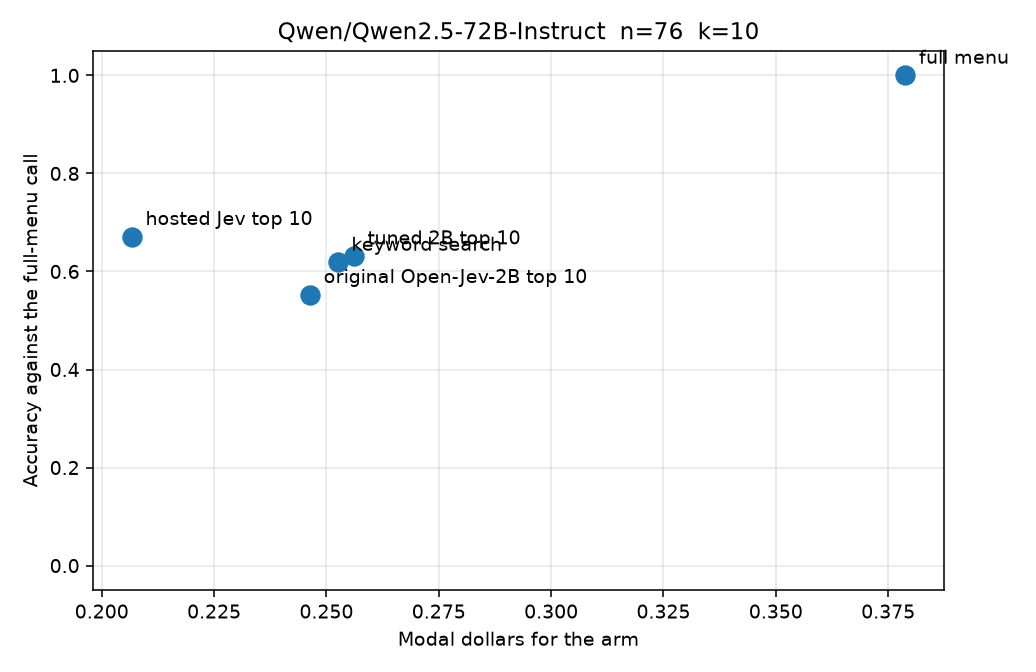
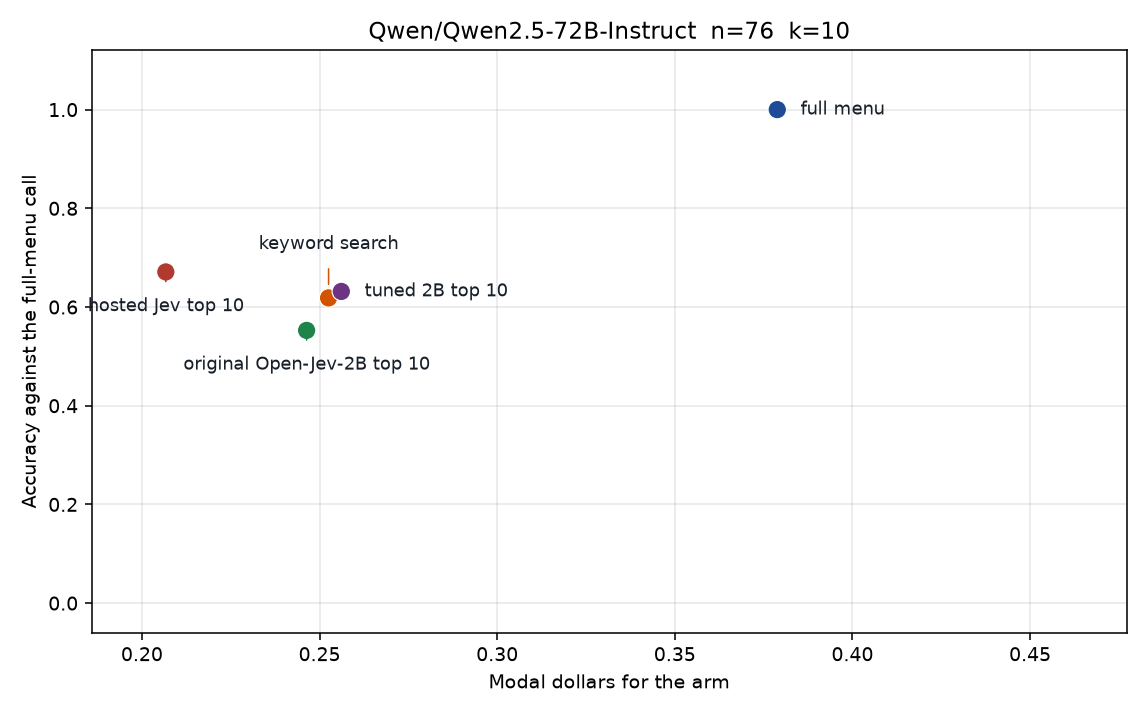
Separate the 76-query cost-graph labels so the names do not overlap.
The keyword-search name was sitting on tuned 2B because leader lines were counted as the labels. Place the words from the same five recorded points.

Changed region(s): [[0.0, 0.0312, 0.9884, 0.9688], [0.1544, 0.5, 0.3707, 0.5312], [0.6486, 0.125, 0.7722, 0.1875]]

diff --git a/frontier_plot.py b/frontier_plot.py
@@ -7,6 +7,7 @@ import re
 from pathlib import Path
 
 _FONTSIZE = 9
+_LABEL_GAP = 8
 _COLORS = (
     "#1f4b99",
     "#d35400",
@@ -93,10 +94,15 @@ def _predicted_box(anchor, dx_pt: float, dy_pt: float, width_px: float, height_p
 
 
 def _annotation_boxes(annotations, renderer):
+    """Text boxes only. Leader lines may cross empty space."""
+    from matplotlib.text import Text
+
     boxes = []
     for ann in annotations:
-        box = ann.get_window_extent(renderer)
-        boxes.append(_padded(box, 2))
+        if renderer is not None:
+            ann._renderer = renderer
+        ann.update_positions(ann._renderer)
+        boxes.append(_padded(Text.get_window_extent(ann), _LABEL_GAP))
     return boxes
 
 
@@ -191,7 +197,7 @@ def draw_labeled_scatter(ax, xs: list[float], ys: list[float], labels: list[obje
         text_h = height + descent
         chosen = None
         for dx_pt, dy_pt in _center_offsets(index, width, text_h, px_per_pt):
-            box = _predicted_box(anchors[index], dx_pt, dy_pt, width, text_h, px_per_pt, pad=4)
+            box = _predicted_box(anchors[index], dx_pt, dy_pt, width, text_h, px_per_pt, pad=_LABEL_GAP)
             if not _inside_figure(box, figure):
                 continue
             if _overlaps(box, obstacles) or _overlaps(box, placed):

diff --git a/tests/test_cost_accuracy_labels.py b/tests/test_cost_accuracy_labels.py
@@ -19,11 +19,18 @@ def _name_artists(ax):
 
 
 def _separated(fig, ax) -> None:
+    from matplotlib.text import Annotation, Text
+
     fig.canvas.draw()
     renderer = fig.canvas.get_renderer()
     boxes = []
     for artist in _name_artists(ax):
-        box = artist.get_window_extent(renderer)
+        if isinstance(artist, Annotation):
+            artist._renderer = renderer
+            artist.update_positions(renderer)
+            box = Text.get_window_extent(artist)
+        else:
+            box = artist.get_window_extent(renderer)
         boxes.append(box.expanded(1.02, 1.08))
     for index, box in enumerate(boxes):
         for other in boxes[index + 1 :]:
